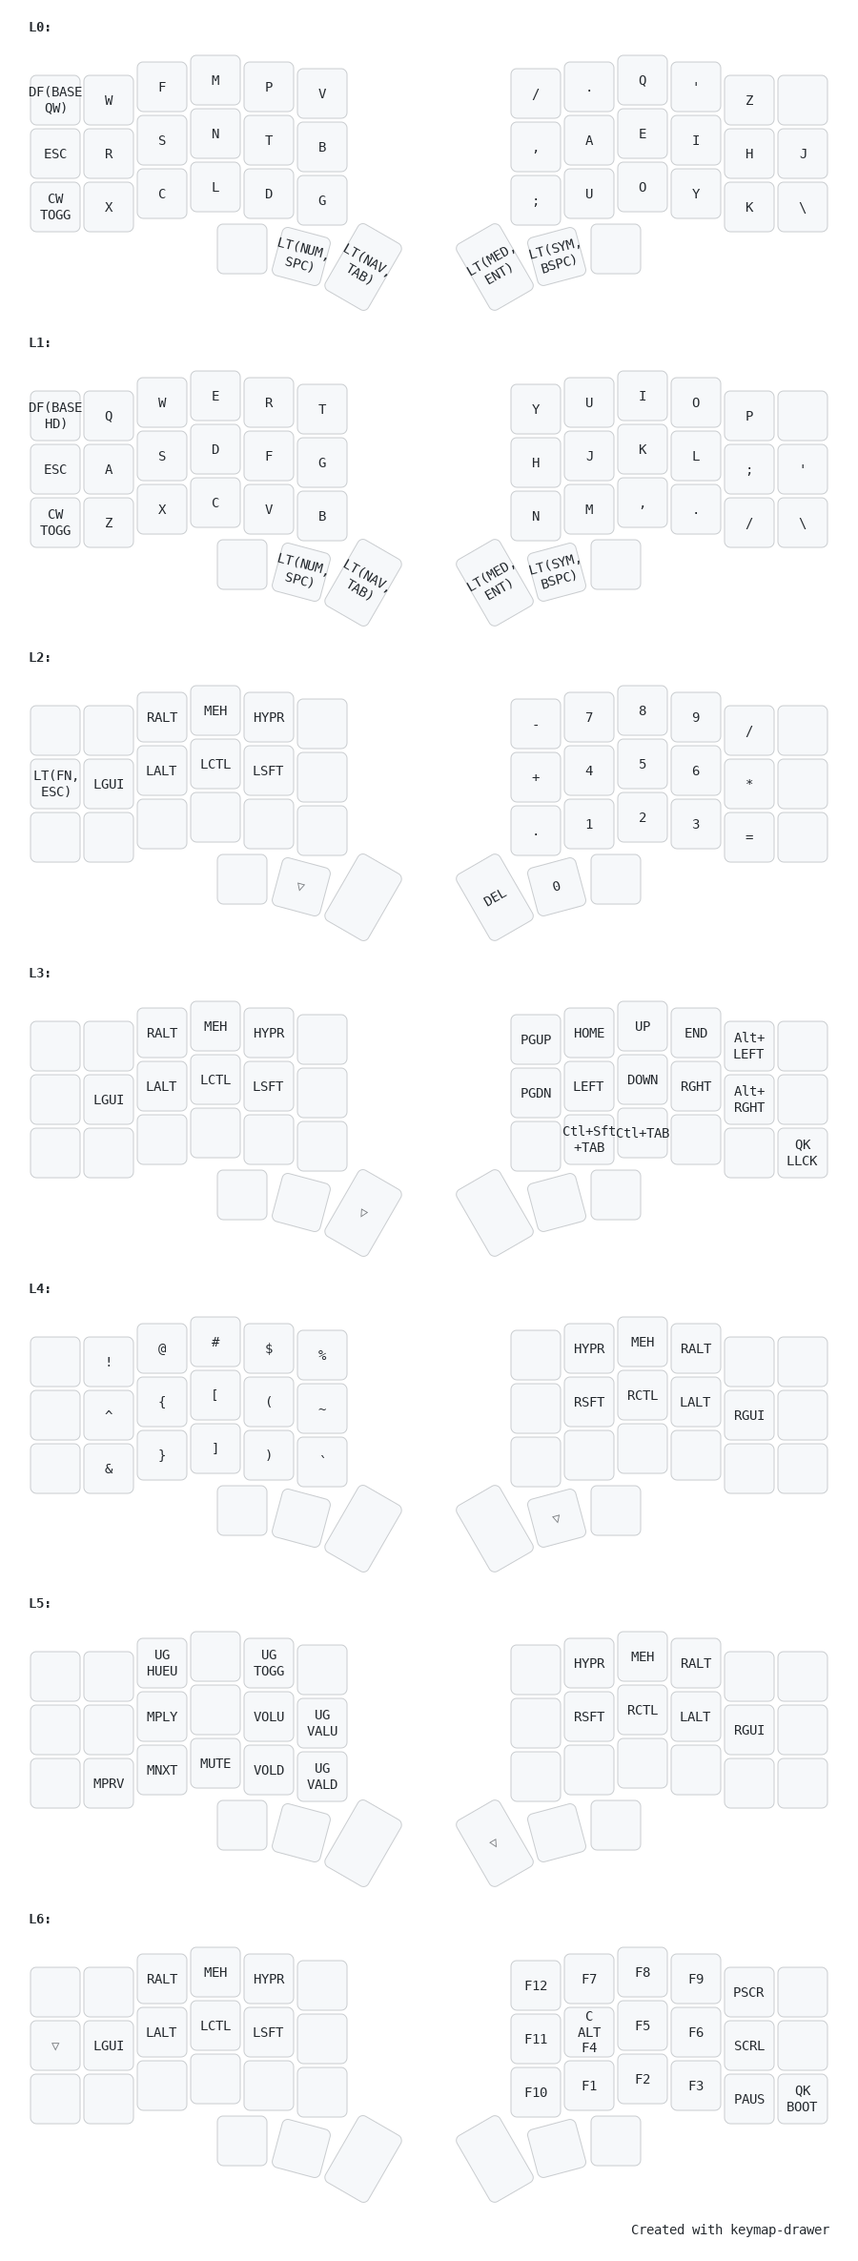
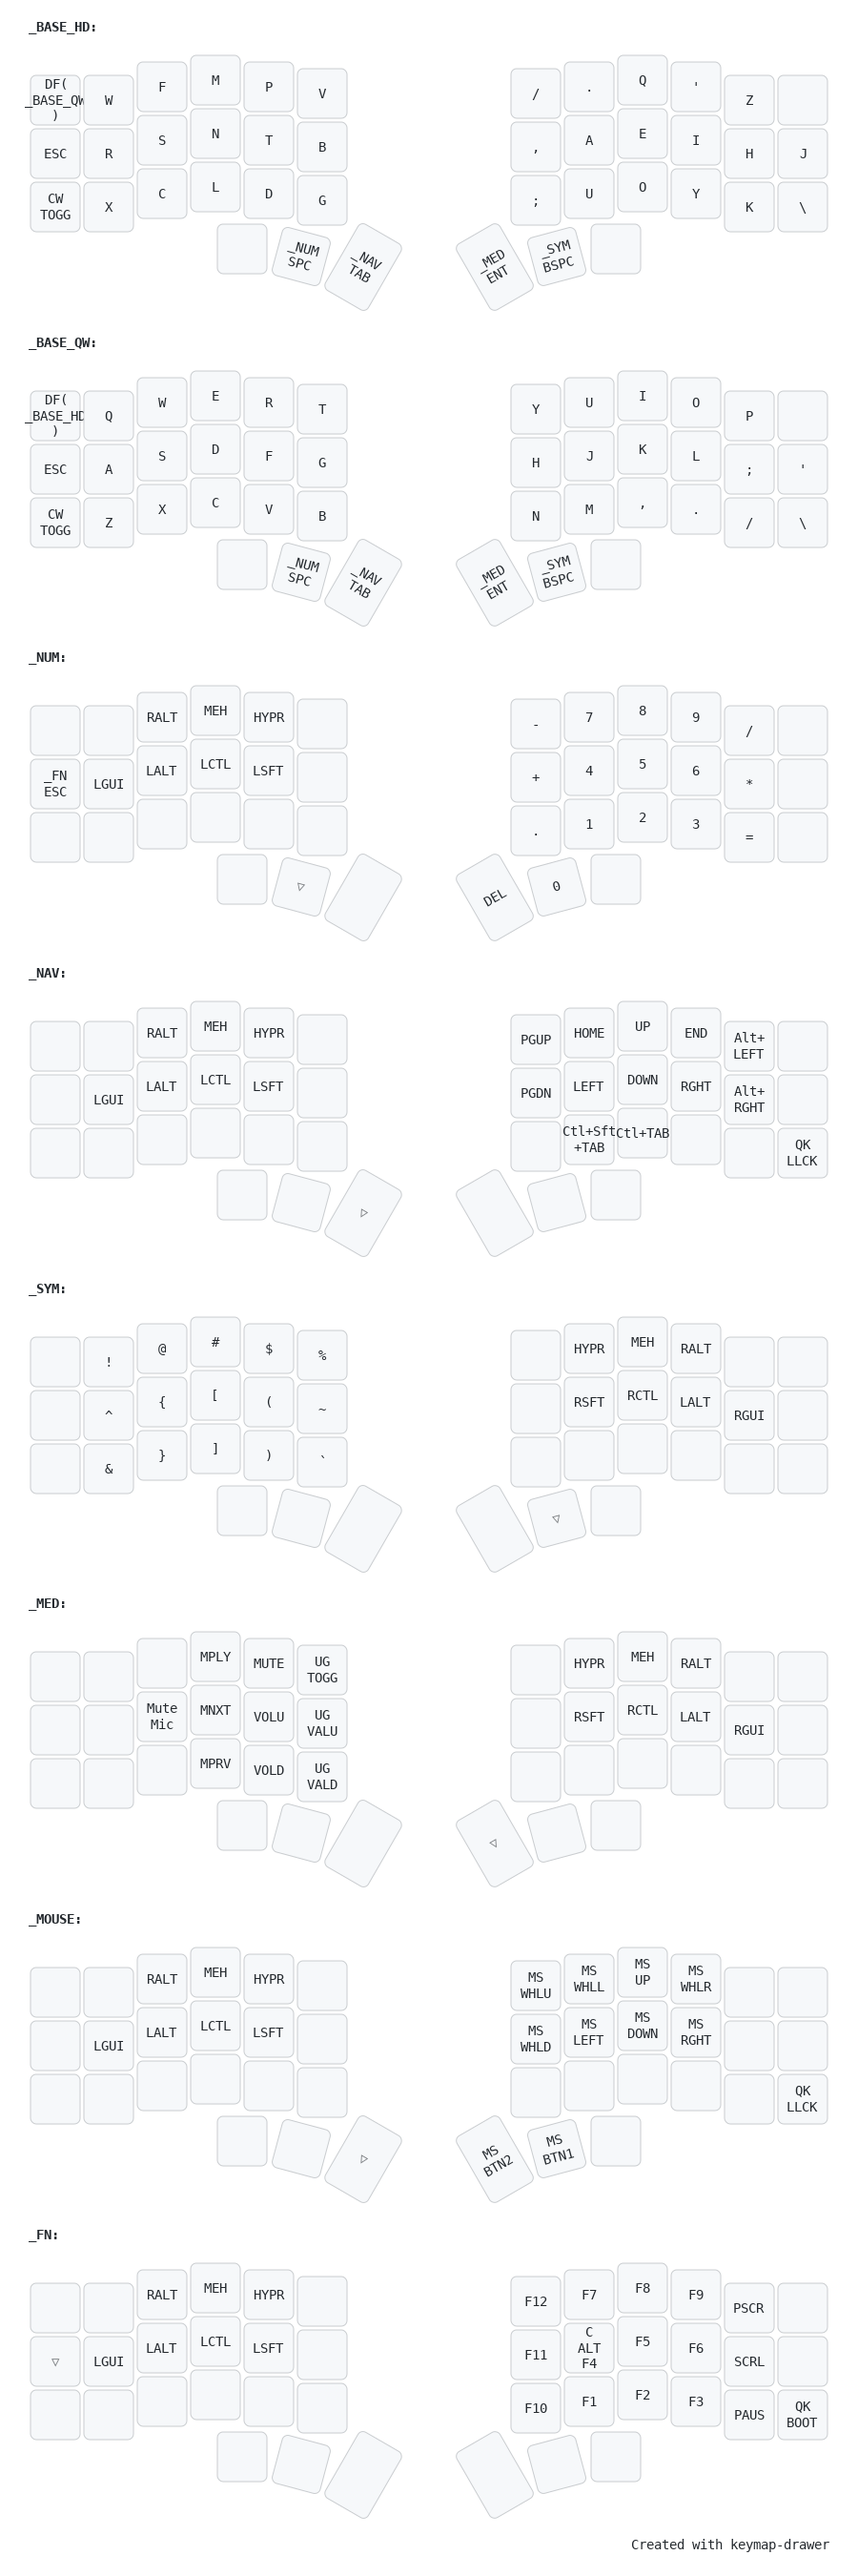
Add mouse layer

diff --git a/keyboards/crkbd/keymaps/crbrd/keymap.c b/keyboards/crkbd/keymaps/crbrd/keymap.c
@@ -25,6 +25,7 @@ enum layers {
     _NAV,
     _SYM,
     _MED,
+    _MOUSE,
     _FN
 };
 
@@ -109,7 +110,11 @@ void matrix_scan_user(void) {
 // Key processing
 bool process_record_user(uint16_t keycode, keyrecord_t* record) {
     switch (keycode) {
-        case C_ALT_F4:  // F4 on tap, Alt + F4 on hold
+        // Left click on tap, Middle click on hold
+        case MS_BTN1:
+            return process_tap_or_long_press_key(record, MS_BTN3);
+        // F4 on tap, Alt + F4 on hold
+        case C_ALT_F4:
             return process_tap_or_long_press_key(record, LALT(KC_F4));
     }
 
@@ -187,6 +192,18 @@ LT(_FN,KC_ESC),KC_LGUI, KC_LALT, KC_LCTL, KC_LSFT, XXXXXXX,                     
       XXXXXXX, XXXXXXX, XXXXXXX, KC_MPRV, KC_VOLD, UG_VALD,                      XXXXXXX, XXXXXXX, XXXXXXX, XXXXXXX, XXXXXXX, XXXXXXX,
   //|--------+--------+--------+--------+--------+--------+--------|  |--------+--------+--------+--------+--------+--------+--------|
                         XXXXXXX,          XXXXXXX,          XXXXXXX,             _______,          XXXXXXX, XXXXXXX
+                    //`--------------------------------------------'  `--------------------------------------------'
+  ),
+
+    [_MOUSE] = LAYOUT_split_3x6_3(
+  //,-----------------------------------------------------.                    ,-----------------------------------------------------.
+      XXXXXXX, XXXXXXX, KC_RALT,  KC_MEH, KC_HYPR, XXXXXXX,                      MS_WHLU, MS_WHLL,   MS_UP, MS_WHLR, XXXXXXX, XXXXXXX,
+  //|--------+--------+--------+--------+--------+--------|                    |--------+--------+--------+--------+--------+--------|
+      XXXXXXX, KC_LGUI, KC_LALT, KC_LCTL, KC_LSFT, XXXXXXX,                      MS_WHLD, MS_LEFT, MS_DOWN, MS_RGHT, XXXXXXX, XXXXXXX,
+  //|--------+--------+--------+--------+--------+--------|                    |--------+--------+--------+--------+--------+--------|
+      XXXXXXX, XXXXXXX, XXXXXXX, XXXXXXX, XXXXXXX, XXXXXXX,                      XXXXXXX, XXXXXXX, XXXXXXX, XXXXXXX, XXXXXXX, QK_LLCK,
+  //|--------+--------+--------+--------+--------+--------+--------|  |--------+--------+--------+--------+--------+--------+--------|
+                        XXXXXXX,          XXXXXXX,          _______,             MS_BTN2,          MS_BTN1, XXXXXXX
                     //`--------------------------------------------'  `--------------------------------------------'
   ),
 
@@ -363,6 +380,9 @@ LT(_FN,KC_ESC),KC_LGUI, KC_LALT, KC_LCTL, KC_LSFT, XXXXXXX,                     
                         break;
                     case _MED:
                         oled_write("media", false);
+                        break;
+                    case _MOUSE:
+                        oled_write("mouse", false);
                         break;
                     case _FN:
                         oled_write("function", false);

diff --git a/keyboards/crkbd/keymaps/crbrd/config.h b/keyboards/crkbd/keymaps/crbrd/config.h
@@ -72,3 +72,10 @@ along with this program.  If not, see <http://www.gnu.org/licenses/>.
     #define RGBLIGHT_SAT_STEP 17
     #define RGBLIGHT_VAL_STEP 17
 #endif
+
+#ifdef MOUSEKEY_ENABLE
+    #define MOUSEKEY_DELAY 2
+    #define MOUSEKEY_INTERVAL 15
+    #define MOUSEKEY_MAX_SPEED 8
+    #define MOUSEKEY_TIME_TO_MAX 80
+#endif
